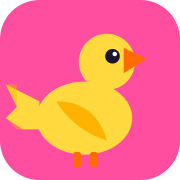
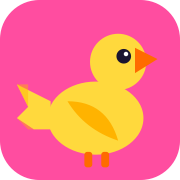
ピーちゃん吹き出しを撤去 + 鳥アイコンを中央寄せ
- ホーム上部の吹き出し(うるさかった)を撤去、ピーちゃんマスコットは
  タイトル右側に小さく配置するだけに
- 不要になったランダム挨拶ロジック(PI_GREETINGS_*, refreshPiGreeting)
  も削除
- favicon と apple-touch-icon の鳥を視覚中央に移動(全座標 +4 シフト)
- キャッシュバスタを v=3 に更新

Changed region(s): [[0.0278, 0.1667, 0.8889, 0.9444]]

diff --git a/index.html b/index.html
@@ -5,8 +5,8 @@
 <meta name="viewport" content="width=device-width, initial-scale=1.0, viewport-fit=cover">
 <meta name="apple-mobile-web-app-capable" content="yes">
 <title>セルフ</title>
-<link rel="icon" type="image/svg+xml" href="favicon.svg?v=2">
-<link rel="apple-touch-icon" sizes="180x180" href="apple-touch-icon.png?v=2">
+<link rel="icon" type="image/svg+xml" href="favicon.svg?v=3">
+<link rel="apple-touch-icon" sizes="180x180" href="apple-touch-icon.png?v=3">
 <link rel="preconnect" href="https://fonts.googleapis.com">
 <link rel="preconnect" href="https://fonts.gstatic.com" crossorigin>
 <link href="https://fonts.googleapis.com/css2?family=Yusei+Magic&family=Fredoka:wght@400;600;700&display=swap" rel="stylesheet">
@@ -65,7 +65,11 @@
      Home — header
      ========================================================================= */
   .home-header {
-    padding: 22px 4px 4px;
+    padding: 22px 4px 16px;
+    display: flex;
+    align-items: center;
+    justify-content: space-between;
+    gap: 12px;
   }
   .home-header h1 {
     font-family: var(--font-heading);
@@ -77,62 +81,15 @@
   }
   .home-header h1 .accent { color: var(--a1); }
 
-  /* =========================================================================
-     Pi-chan mascot + speech bubble
-     ========================================================================= */
-  .pi-greeting {
-    display: flex;
-    align-items: flex-start;
-    gap: 10px;
-    margin: 12px 0 16px;
-  }
-  .pi-mascot {
-    width: 52px;
-    height: 52px;
+  .home-mascot {
+    width: 44px;
+    height: 44px;
     flex-shrink: 0;
     filter: drop-shadow(2px 2px 0 var(--ink));
   }
-  .pi-mascot svg {
+  .home-mascot svg {
     width: 100%; height: 100%;
     display: block;
-  }
-  .pi-bubble {
-    flex: 1;
-    background: var(--card);
-    border: 2px solid var(--ink);
-    border-radius: 14px;
-    padding: 10px 12px;
-    position: relative;
-    box-shadow: var(--shadow-fab);
-    font-family: var(--font-heading);
-    font-size: 13px;
-    line-height: 1.45;
-    font-weight: 700;
-    color: var(--ink);
-    min-height: 32px;
-    display: flex;
-    align-items: center;
-  }
-  .pi-bubble::before {
-    content: '';
-    position: absolute;
-    left: -10px;
-    top: 18px;
-    width: 12px; height: 12px;
-    background: var(--card);
-    border-left: 2px solid var(--ink);
-    border-bottom: 2px solid var(--ink);
-    transform: rotate(45deg);
-  }
-
-  /* Inline Pi-chan icon for use in summary, loading etc */
-  .pi-inline {
-    width: 36px;
-    height: 36px;
-    display: inline-block;
-    vertical-align: middle;
-    flex-shrink: 0;
-    filter: drop-shadow(1.5px 1.5px 0 var(--ink));
   }
 
   .screen-title {
@@ -1123,27 +1080,23 @@
   <section id="homeScreen">
     <header class="home-header">
       <h1>今日の<span class="accent">身だしなみ</span></h1>
-    </header>
-
-    <div class="pi-greeting">
-      <div class="pi-mascot">
-        <svg viewBox="0 0 64 64" xmlns="http://www.w3.org/2000/svg" aria-label="ピーちゃん">
+      <div class="home-mascot" aria-hidden="true">
+        <svg viewBox="0 0 64 64" xmlns="http://www.w3.org/2000/svg">
           <rect width="64" height="64" rx="14" fill="#FF4DA0"/>
-          <ellipse cx="30" cy="42" rx="17" ry="13" fill="#FFD93D"/>
-          <path d="M 14 36 L 2 30 L 6 38 L 2 42 L 8 46 L 14 46 Z" fill="#FFD93D"/>
-          <path d="M 6 30 L 2 30 L 6 38 Z" fill="#FFB300" opacity="0.45"/>
-          <path d="M 6 46 L 2 42 L 8 46 Z" fill="#FFB300" opacity="0.45"/>
-          <circle cx="38" cy="22" r="10" fill="#FFD93D"/>
-          <path d="M 52 21 L 44 17 L 44 26 Z" fill="#FF6B00"/>
-          <circle cx="40" cy="20" r="2.6" fill="#1a1530"/>
-          <circle cx="40.8" cy="19.2" r="0.8" fill="#FFFFFF"/>
-          <path d="M 20 36 Q 34 36 38 50 Q 26 46 20 36 Z" fill="#FFB300"/>
-          <rect x="26" y="54" width="2.8" height="5.5" rx="1" fill="#FF6B00"/>
-          <rect x="32" y="54" width="2.8" height="5.5" rx="1" fill="#FF6B00"/>
+          <ellipse cx="34" cy="42" rx="17" ry="13" fill="#FFD93D"/>
+          <path d="M 18 36 L 6 30 L 10 38 L 6 42 L 12 46 L 18 46 Z" fill="#FFD93D"/>
+          <path d="M 10 30 L 6 30 L 10 38 Z" fill="#FFB300" opacity="0.45"/>
+          <path d="M 10 46 L 6 42 L 12 46 Z" fill="#FFB300" opacity="0.45"/>
+          <circle cx="42" cy="22" r="10" fill="#FFD93D"/>
+          <path d="M 56 21 L 48 17 L 48 26 Z" fill="#FF6B00"/>
+          <circle cx="44" cy="20" r="2.6" fill="#1a1530"/>
+          <circle cx="44.8" cy="19.2" r="0.8" fill="#FFFFFF"/>
+          <path d="M 24 36 Q 38 36 42 50 Q 30 46 24 36 Z" fill="#FFB300"/>
+          <rect x="30" y="54" width="2.8" height="5.5" rx="1" fill="#FF6B00"/>
+          <rect x="36" y="54" width="2.8" height="5.5" rx="1" fill="#FF6B00"/>
         </svg>
       </div>
-      <div class="pi-bubble" id="piBubble">ピピピピピー！今日も一緒にチェックしよう♪</div>
-    </div>
+    </header>
 
     <div id="heroCard" class="hero-card"></div>
 
@@ -1473,44 +1426,6 @@
     }
   }
 
-  // =========================================================================
-  // Pi-chan random greeting on home
-  // =========================================================================
-  const PI_GREETINGS_DEFAULT = [
-    'ピピピピピー！今日も一緒にチェックしよう♪',
-    'ピピッ！見てるよ〜',
-    'ピーちゃん今日も応援してるよ！',
-    'ピピピピピー！今日もキラリ整えよう♪',
-    'おはよう〜！今日も元気？ピピピピピー！'
-  ];
-  const PI_GREETINGS_AFTER_OK = [
-    'さっきはばっちりだったね！ピピピピピー！',
-    'キラキラだったよ〜♪今日も？',
-    'いい感じ！この調子で行こう！'
-  ];
-  const PI_GREETINGS_AFTER_WARN = [
-    '昨日のとこ、もう一回見てみる？',
-    'ピピッ！今日はばっちり狙ってこ♪',
-    '一緒にがんばろうね！'
-  ];
-
-  function pickPiGreeting() {
-    const last = history[0];
-    let pool = PI_GREETINGS_DEFAULT;
-    if (last) {
-      const tsAge = Date.now() - last.ts;
-      const within2h = tsAge < 2 * 60 * 60 * 1000;
-      if (within2h) {
-        pool = last.level === 'ok' ? PI_GREETINGS_AFTER_OK : PI_GREETINGS_AFTER_WARN;
-      }
-    }
-    return pool[Math.floor(Math.random() * pool.length)];
-  }
-
-  function refreshPiGreeting() {
-    const el = document.getElementById('piBubble');
-    if (el) el.textContent = pickPiGreeting();
-  }
 
   // =========================================================================
   // Screen navigation
@@ -1547,7 +1462,6 @@
   // Home rendering
   // =========================================================================
   function renderHome() {
-    refreshPiGreeting();
     renderHeroCard();
     renderModeChips();
     renderGenderToggle();